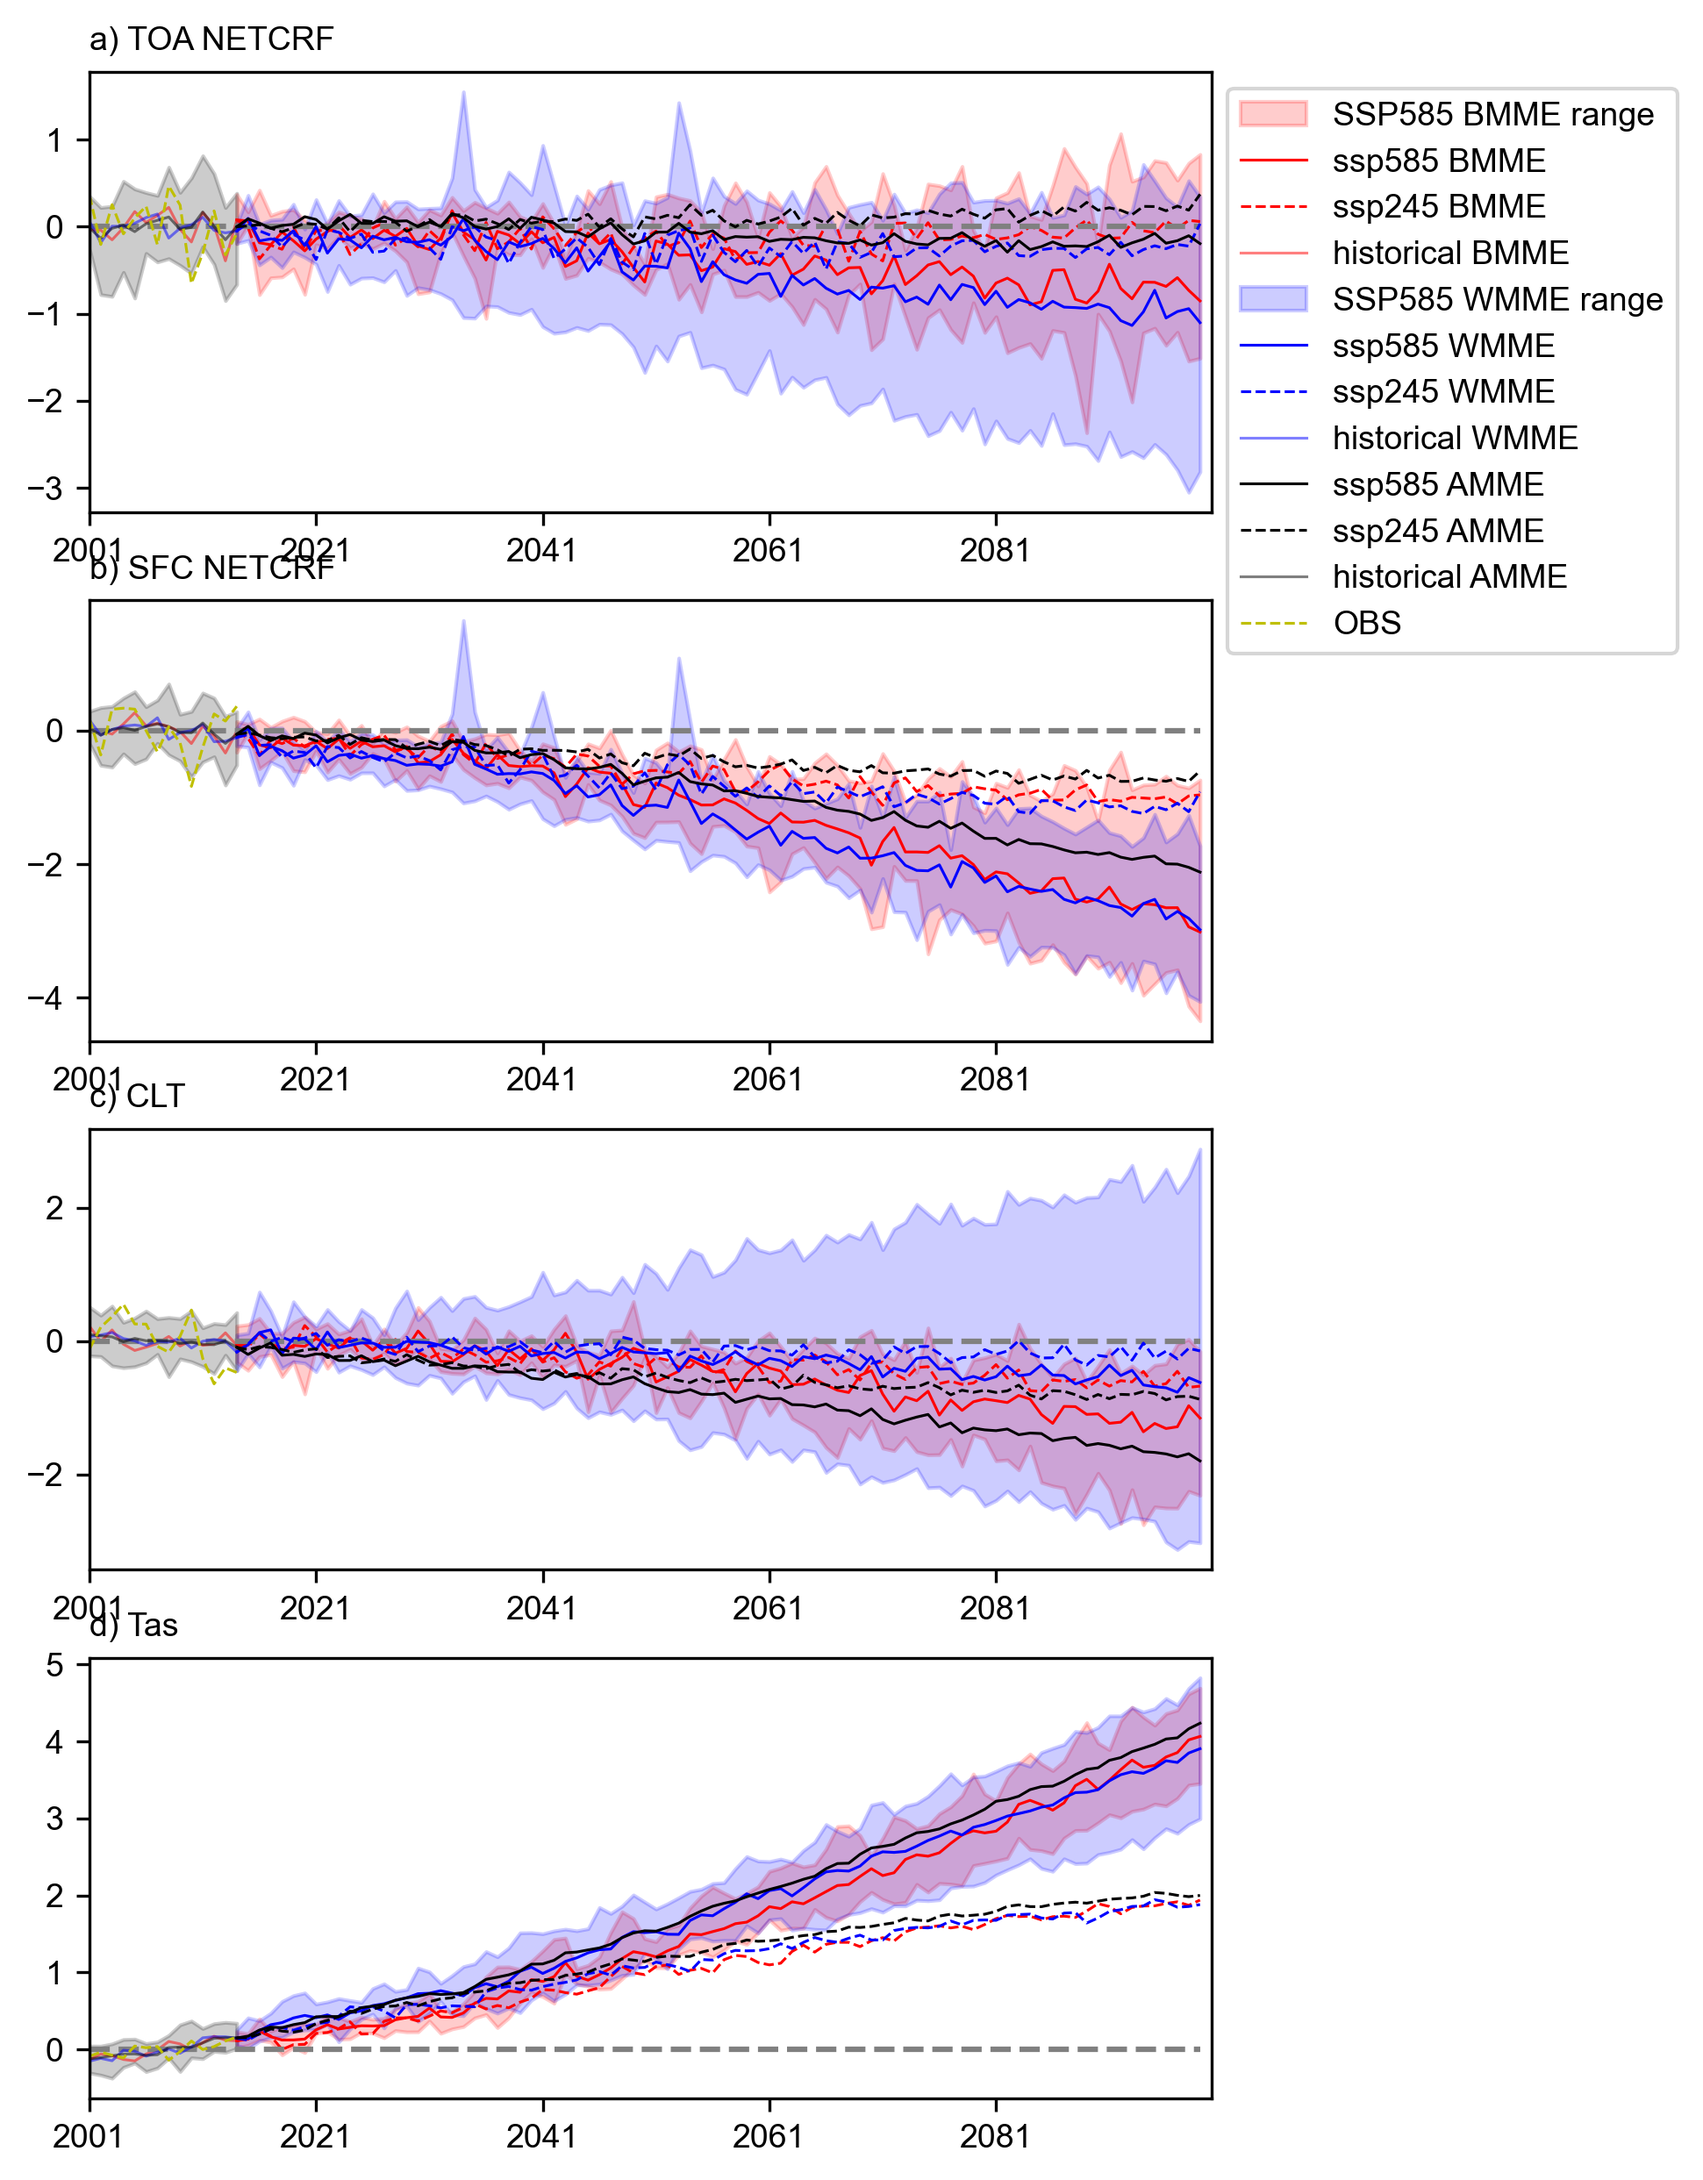
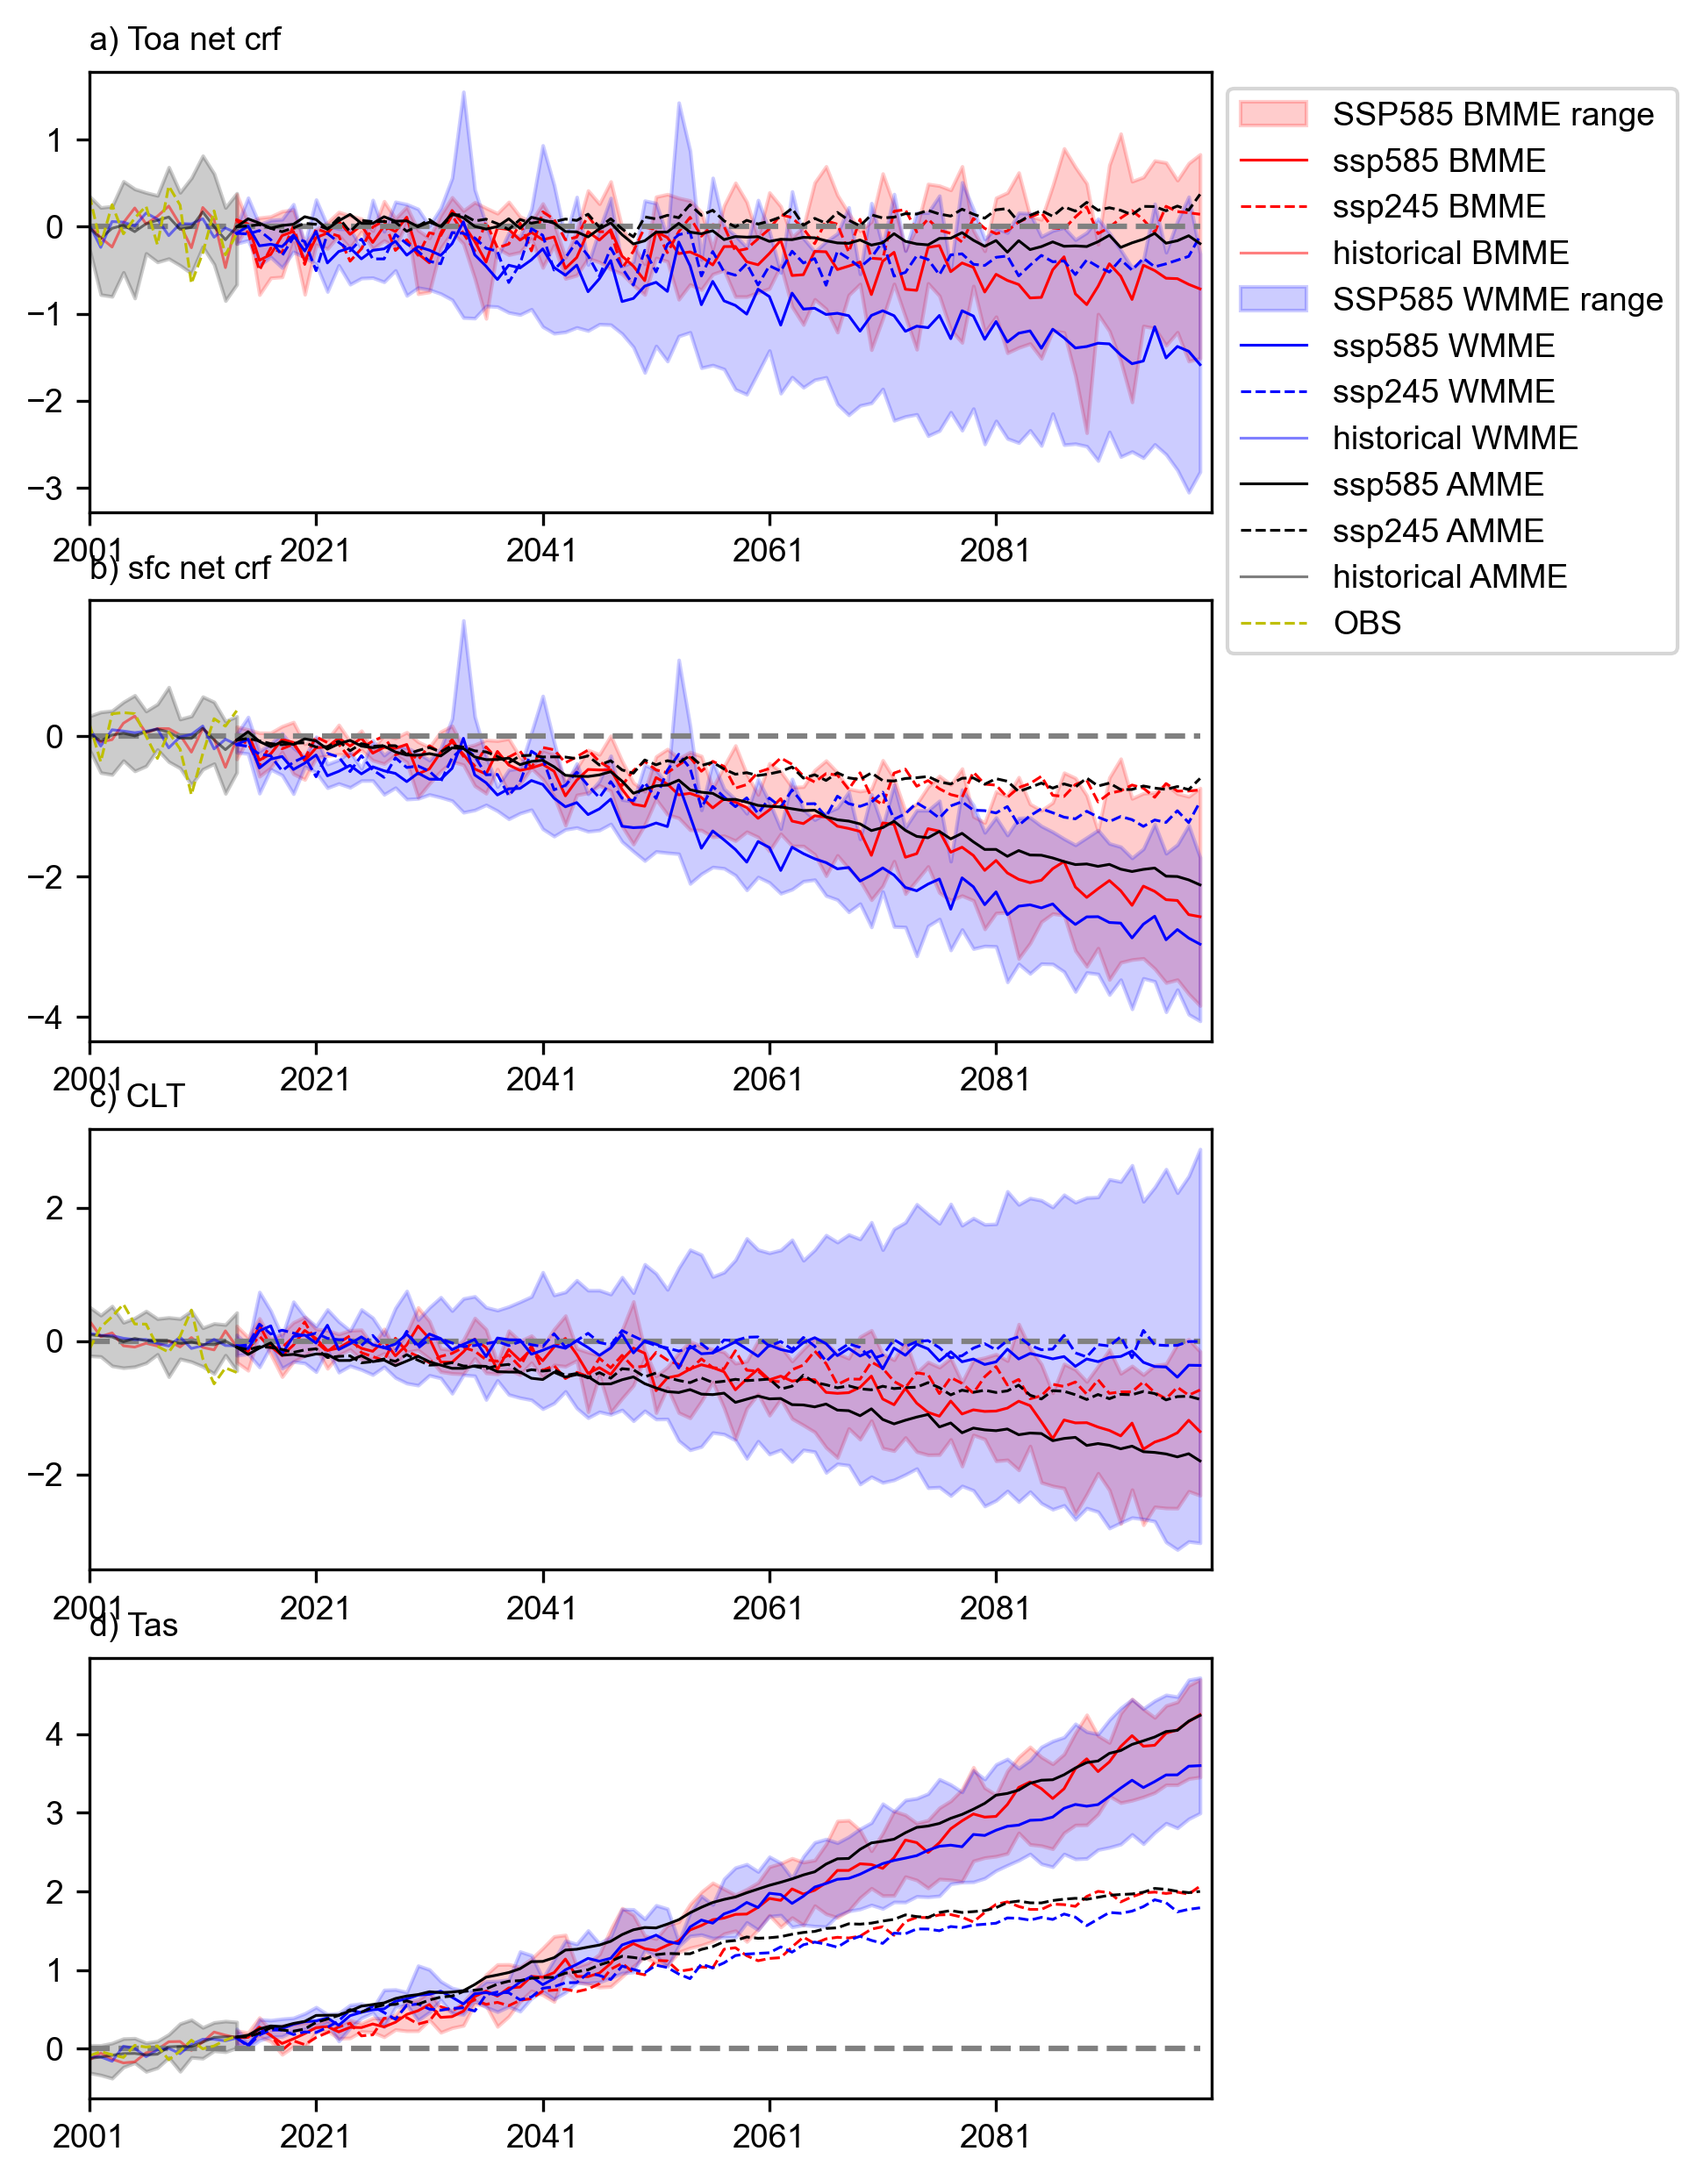
mainly commit

diff --git a/code/plot_bwmme_ssp_trend.py b/code/plot_bwmme_ssp_trend.py
@@ -11,8 +11,13 @@ from matplotlib.font_manager import FontProperties
 font =FontProperties(family='Arial')
 plt.rcParams['font.family']=font.get_name()
 
-bmme=['EC-Earth3-CC','MPI-ESM1-2-HR','MPI-ESM1-2-LR','CMCC-CM2-SR5']
-wmme=['FGOALS-g3','CAS-ESM2-0','NESM3','INM-CM4-8']
+
+# bmme=['EC-Earth3-CC','MPI-ESM1-2-HR']
+# wmme=['FGOALS-g3','CAS-ESM2-0']
+
+bmme=['CMCC-CM2-SR5','EC-Earth3-CC','MPI-ESM1-2-HR']
+wmme=['CAS-ESM2-0','FGOALS-g3','INM-CM4-8']
+
 
 ##读取ceres的200101-201412数据
 obs=np.zeros([6,14])
@@ -99,8 +104,8 @@ t8=t8-np.mean(t8[0:14,:],0)
 fig,ax=plt.subplots(4,1,figsize=(5.5,10),dpi=300)
 fig.subplots_adjust(hspace=0.2) # Adjust vertical spacing between subplots
 colors=plt.cm.nipy_spectral(np.linspace(0,1,20))
-draw3_range(ax[0],t1,t1.loc[:,list(set(bmme))],t1.loc[:,list(set(wmme))],t2,t2.loc[:,list(set(bmme))],t2.loc[:,list(set(wmme))],obs2[0,:]+obs2[1,:],'a) TOA NETCRF',1)
-draw3_range(ax[1],t3,t3.loc[:,list(set(bmme))],t3.loc[:,list(set(wmme))],t4,t4.loc[:,list(set(bmme))],t4.loc[:,list(set(wmme))],obs2[2,:]+obs2[3,:],'b) SFC NETCRF',2)
+draw3_range(ax[0],t1,t1.loc[:,list(set(bmme))],t1.loc[:,list(set(wmme))],t2,t2.loc[:,list(set(bmme))],t2.loc[:,list(set(wmme))],obs2[0,:]+obs2[1,:],'a) Toa net crf',1)
+draw3_range(ax[1],t3,t3.loc[:,list(set(bmme))],t3.loc[:,list(set(wmme))],t4,t4.loc[:,list(set(bmme))],t4.loc[:,list(set(wmme))],obs2[2,:]+obs2[3,:],'b) sfc net crf',2)
 draw3_range(ax[2],t5,t5.loc[:,list(set(bmme))],t5.loc[:,list(set(wmme))],t6,t6.loc[:,list(set(bmme))],t6.loc[:,list(set(wmme))],obs2[4,:],'c) CLT',3)
 draw3_range(ax[3],t7,t7.loc[:,list(set(bmme))],t7.loc[:,list(set(wmme))],t8,t8.loc[:,list(set(bmme))],t8.loc[:,list(set(wmme))],obs2[5,:],'d) Tas',4)
 plt.savefig('../fig/bwmme_ssp_trend.png',bbox_inches='tight')

diff --git a/code/plot_score_cloudfeedback.py b/code/plot_score_cloudfeedback.py
@@ -1,0 +1,41 @@
+import os
+import numpy as np
+import xarray as xr
+import glob
+import pandas as pd
+import re
+import matplotlib.pyplot as plt
+import json
+
+#读取feedback and forcing data
+f = open('/data04/shiy/code_cloud/feedback_cmip6/zk_cmip56/cmip56_forcing_feedback_ecs-master/cmip56_forcing_feedback_ecs.json','r')
+data = json.load(f)
+
+models=['ACCESS-CM2','ACCESS-ESM1-5','BCC-CSM2-MR','CanESM5','CAS-ESM2-0','CESM2-WACCM','CMCC-CM2-SR5','EC-Earth3-CC','FGOALS-g3','GFDL-ESM4','INM-CM4-8','INM-CM5-0','IPSL-CM6A-LR','KACE-1-0-G','KIOST-ESM','MIROC6','MPI-ESM1-2-HR','MPI-ESM1-2-LR','MRI-ESM2-0','NESM3']
+print(len(models))
+#20个模式
+ECS=np.zeros(len(models))
+CF=np.zeros(len(models))
+for m in range(len(models)):
+    if models[m]=='CAS-ESM2-0':
+        ECS[m]=3.45
+        CF[m]=0.47
+    elif models[m]=='KIOST-ESM':
+        ECS[m]=3.36
+        CF[m]=0
+    else:
+        ECS[m]=data['CMIP6'][models[m]]['r1i1p1f1']['ECS']
+        CF[m]=data['CMIP6'][models[m]]['r1i1p1f1']['CLD']
+
+
+#某变量的rank score与cloud feedback是否具有相关性
+csri_rank=xr.open_dataarray('../data/csr_vi_rank_score_21x35.nc')
+
+csr=np.mean(csri_rank[:20,[3,10,17,24,31]],1)
+vi=np.mean(csri_rank[:20,[6,13,20,27,34]],1)
+svi=np.mean(csri_rank[:20,[5,12,19,26,33]],1)
+csr_vi=np.mean(csri_rank[:20,[3,6,10,13,17,20,24,27,31,34]],1)
+print('csr,cf',np.corrcoef(csr,CF)[0,1])
+print('vi,cf',np.corrcoef(vi,CF)[0,1])
+print('svi,cf',np.corrcoef(svi,CF)[0,1])
+print('csr_vi,cf',np.corrcoef(csr_vi,CF)[0,1])

diff --git a/code/plot_heatmap_model_score.py b/code/plot_heatmap_model_score.py
@@ -86,7 +86,8 @@ for v in range(5):
 print('----')
 print(np.mean(csr_rank[:,[3,6,10,13,17,20,24,27,31,34]],1))
 #####依据总分数从小到大排序
-index1=np.argsort(np.mean(csr_rank[:,[3,6,10,13,17,20,24,27,31,34]],1))
+# index1=np.argsort(np.mean(csr_rank[:,[3,6,10,13,17,20,24,27,31,34]],1))
+index1=np.argsort(np.mean(csr_rank[:,[3,4,5,10,11,12,17,18,19,24,25,26,31,32,33]],1))
 models_p1=models
 models_p1=np.array(models)[index1]
 csr_rank_p1=csr_rank[index1,:]
